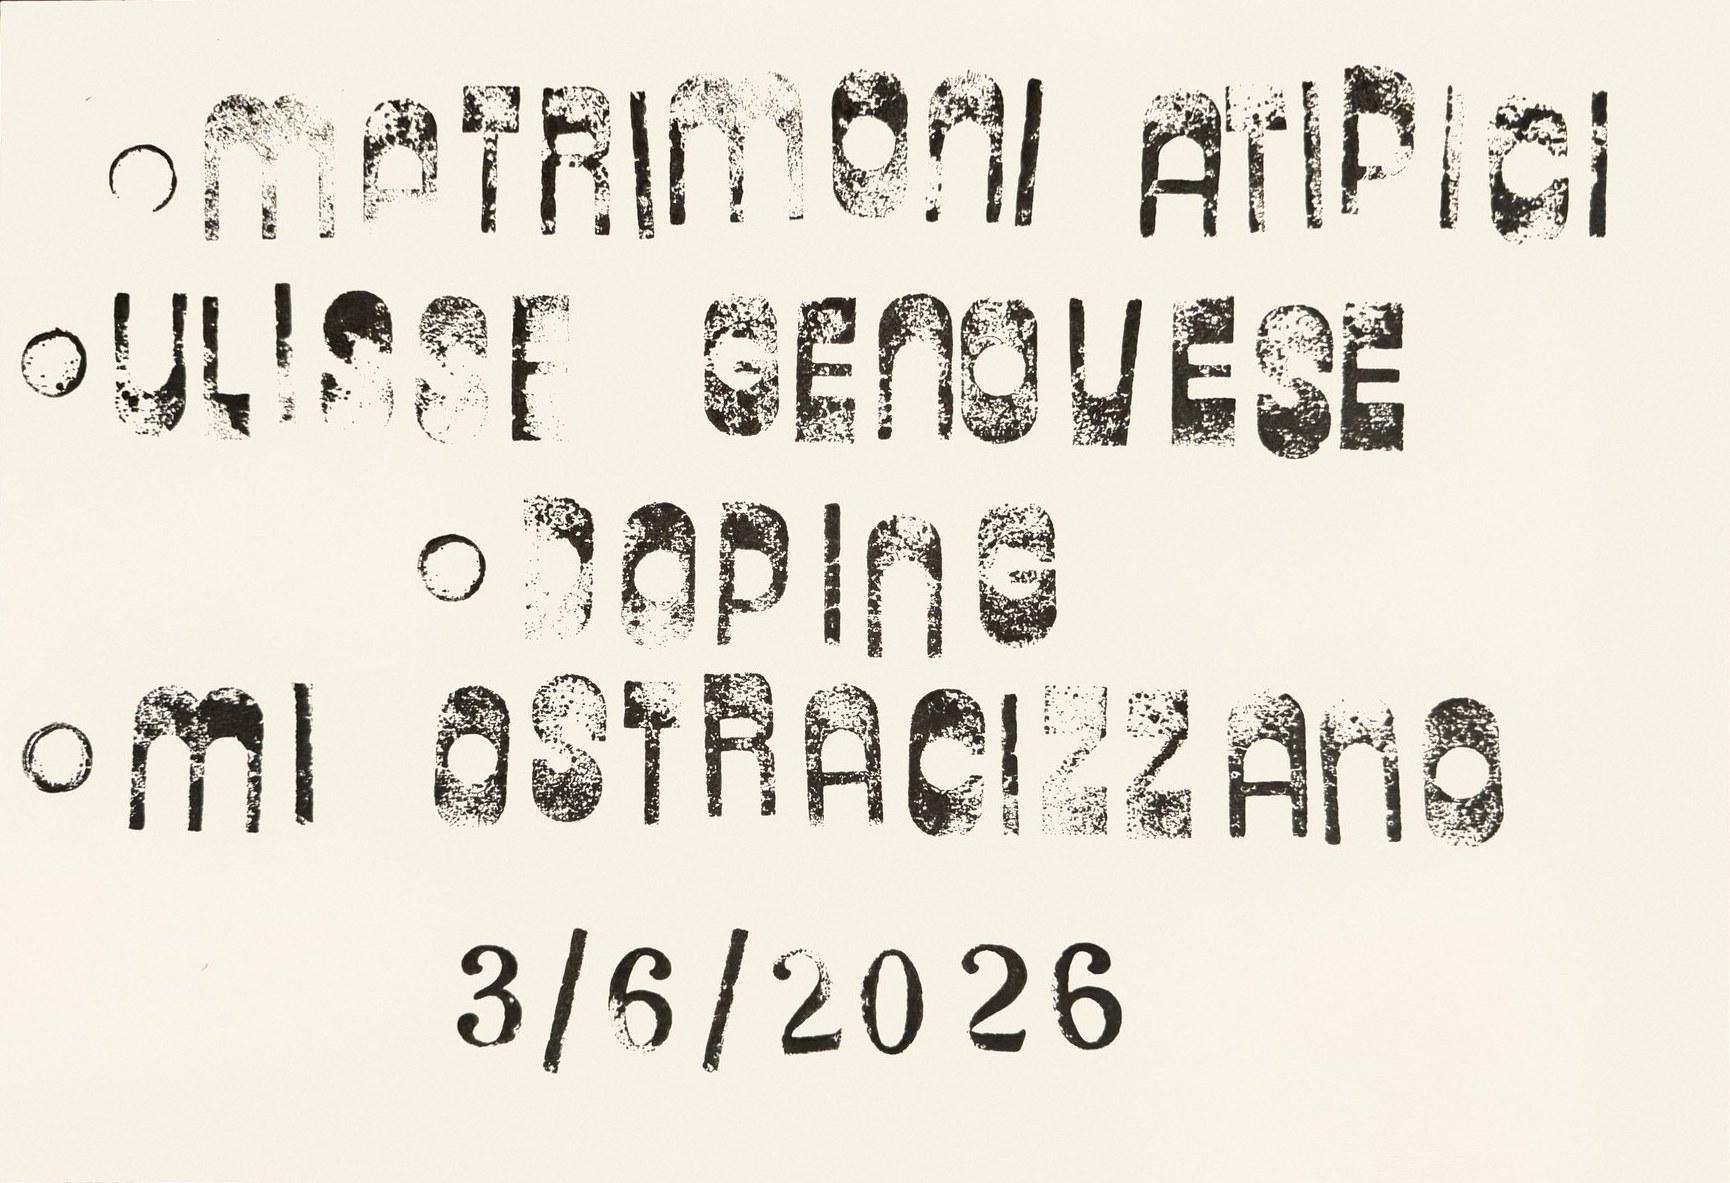
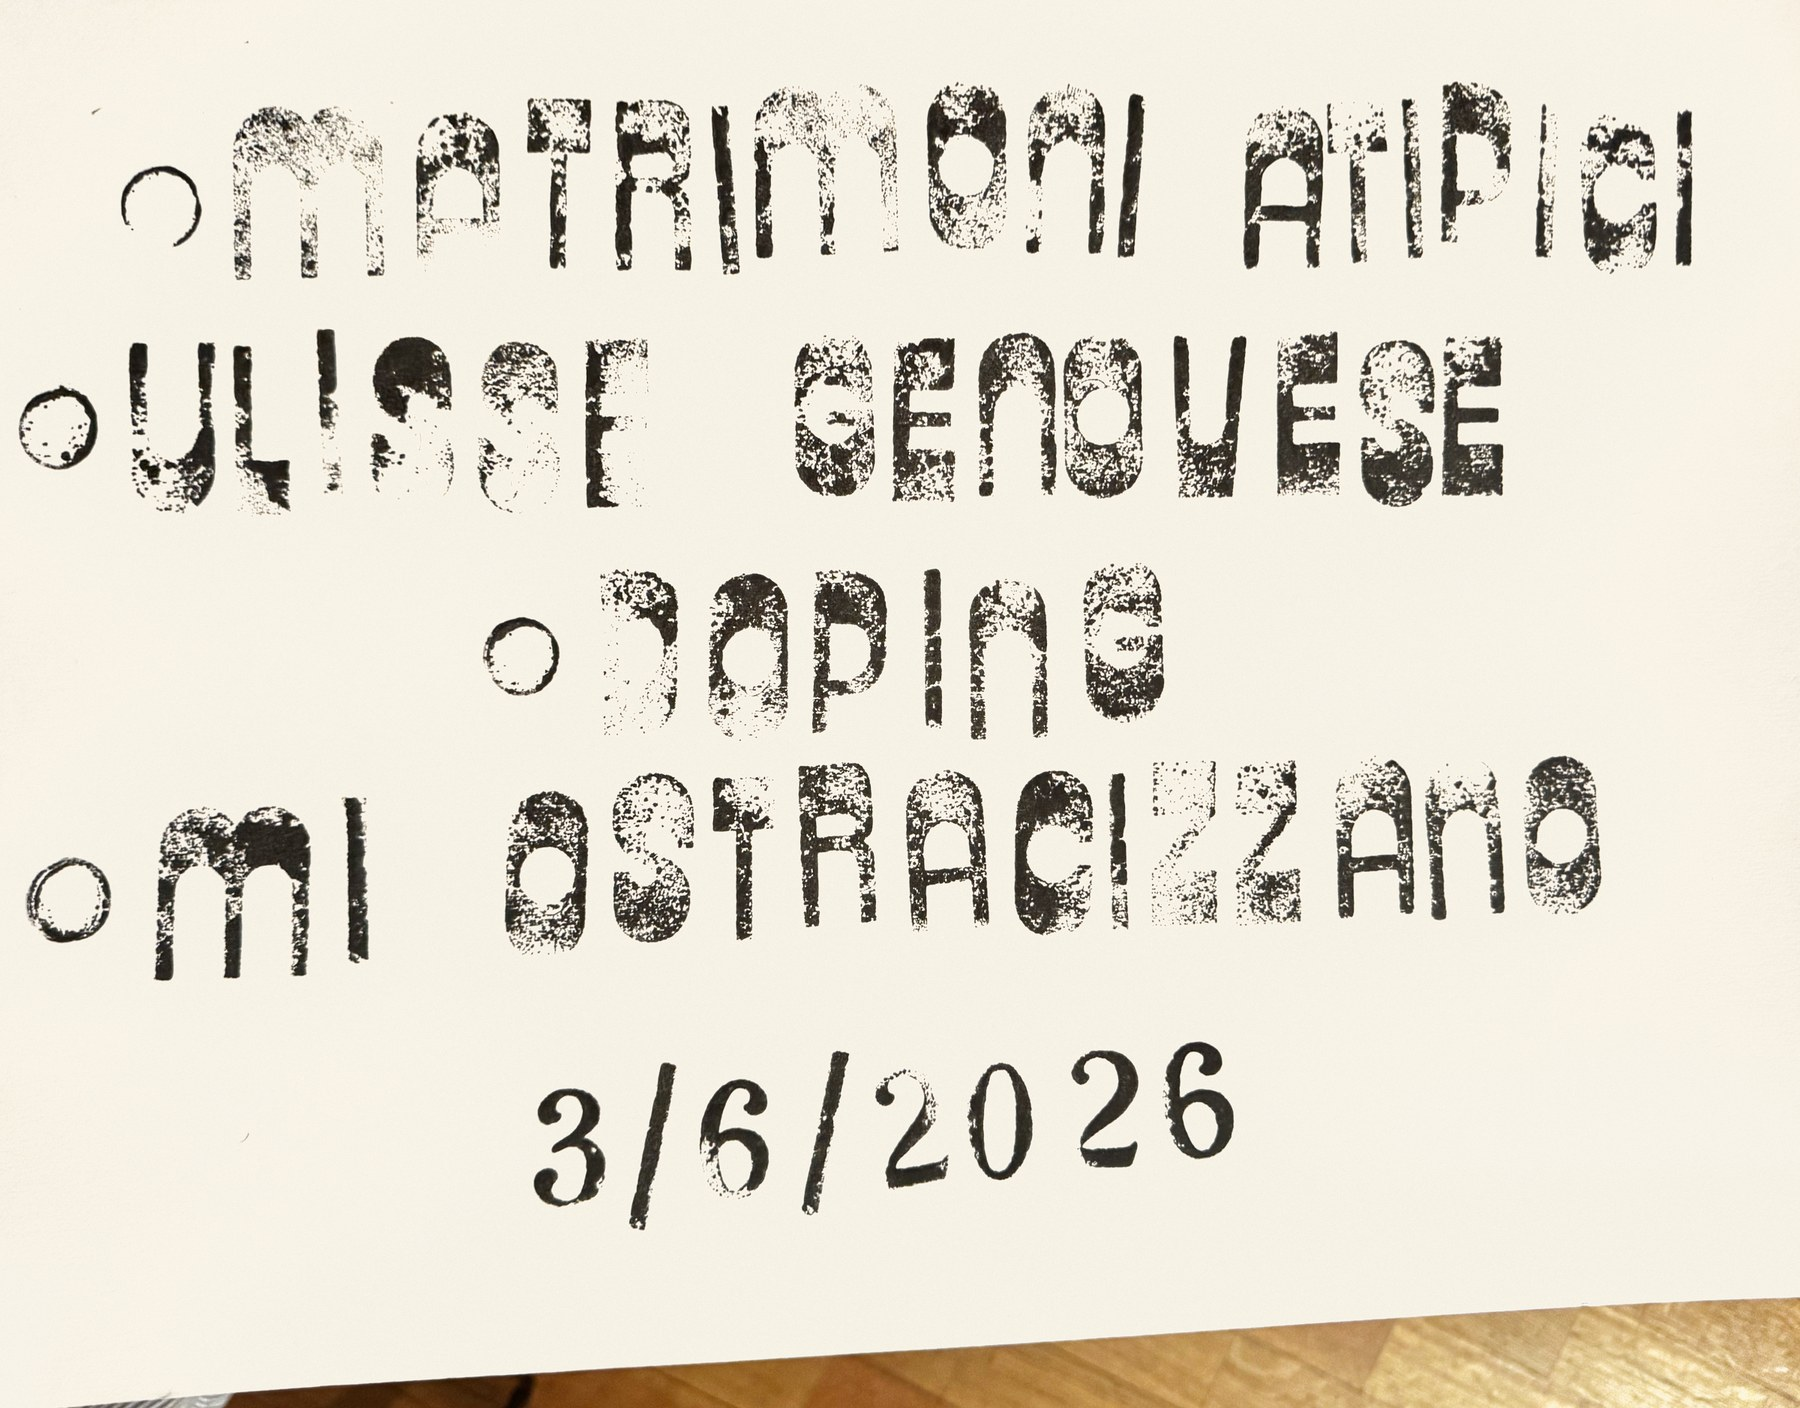
Rigenera 4/6 e 3/6 in HD da originali (warp 4 angoli + v5, orientamento corretto)

Changed region(s): [[0.0, 0.0304, 0.9676, 0.9129], [0.0624, 0.9129, 1.0, 1.0], [0.0, 0.5478, 0.2185, 0.6999]]

diff --git a/index.html b/index.html
@@ -662,21 +662,21 @@ section#timbri{ padding-top: clamp(160px, 18vw, 240px); }
 <section class="page" id="timbri">
   <div class="gallery" id="gallery">
     <figure class="work">
-      <div class="work-frame" style="--ratio: 143.71%;">
+      <div class="work-frame" style="--ratio: 144.0%;">
         <img src="foto_definitive/Timbro_2026-06-04.jpg"
              srcset="foto_definitive/thumbs/Timbro_2026-06-04.jpg 800w, foto_definitive/Timbro_2026-06-04.jpg 1800w"
              sizes="(max-width: 720px) 92vw, 720px"
-             width="1050" height="1509"
+             width="1250" height="1800"
              alt="4/6/26" loading="lazy" decoding="async" />
       </div>
       <figcaption class="work-caption"><span class="work-date">4/6/26</span></figcaption>
     </figure>
     <figure class="work">
-      <div class="work-frame" style="--ratio: 68.38%;">
+      <div class="work-frame" style="--ratio: 78.22%;">
         <img src="foto_definitive/Timbro_2026-06-03.jpg"
              srcset="foto_definitive/thumbs/Timbro_2026-06-03.jpg 800w, foto_definitive/Timbro_2026-06-03.jpg 1800w"
              sizes="(max-width: 720px) 92vw, 720px"
-             width="1730" height="1183"
+             width="1800" height="1408"
              alt="3/6/26" loading="lazy" decoding="async" />
       </div>
       <figcaption class="work-caption"><span class="work-date">3/6/26</span></figcaption>
